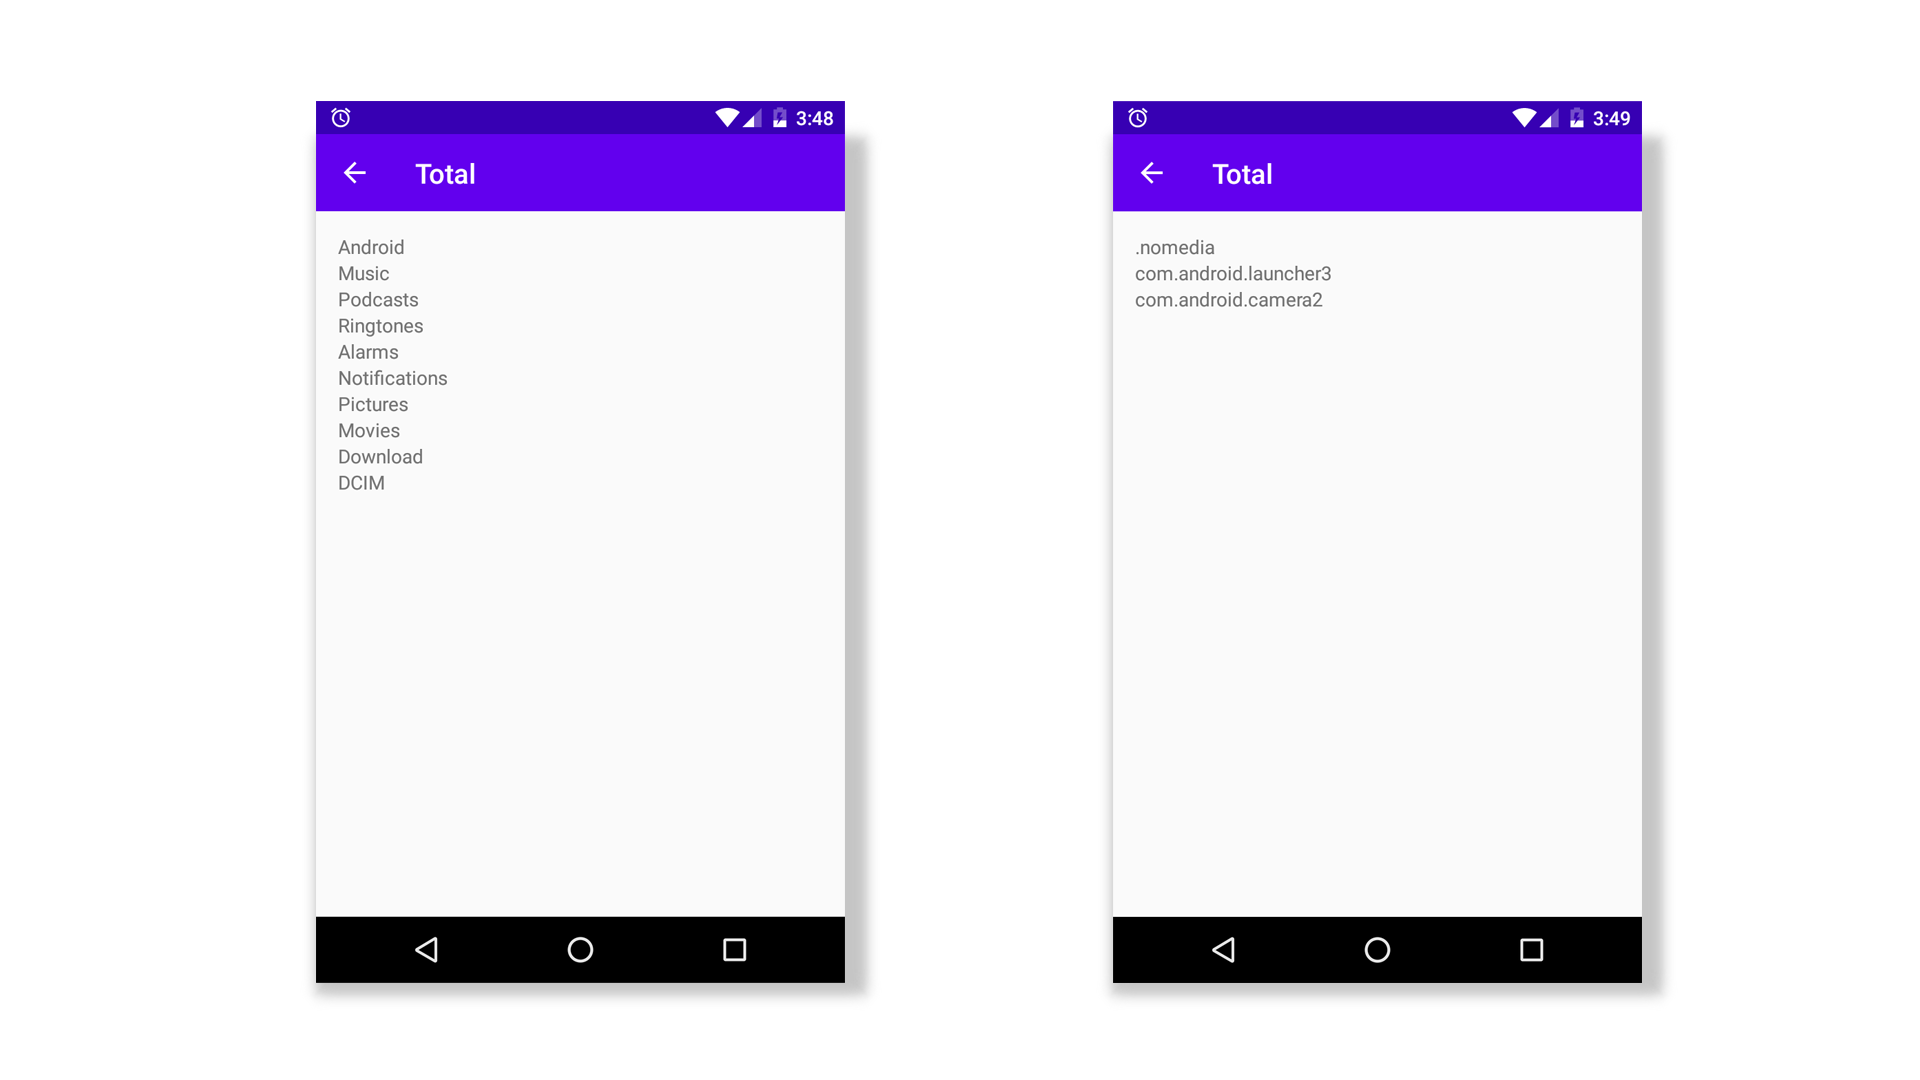
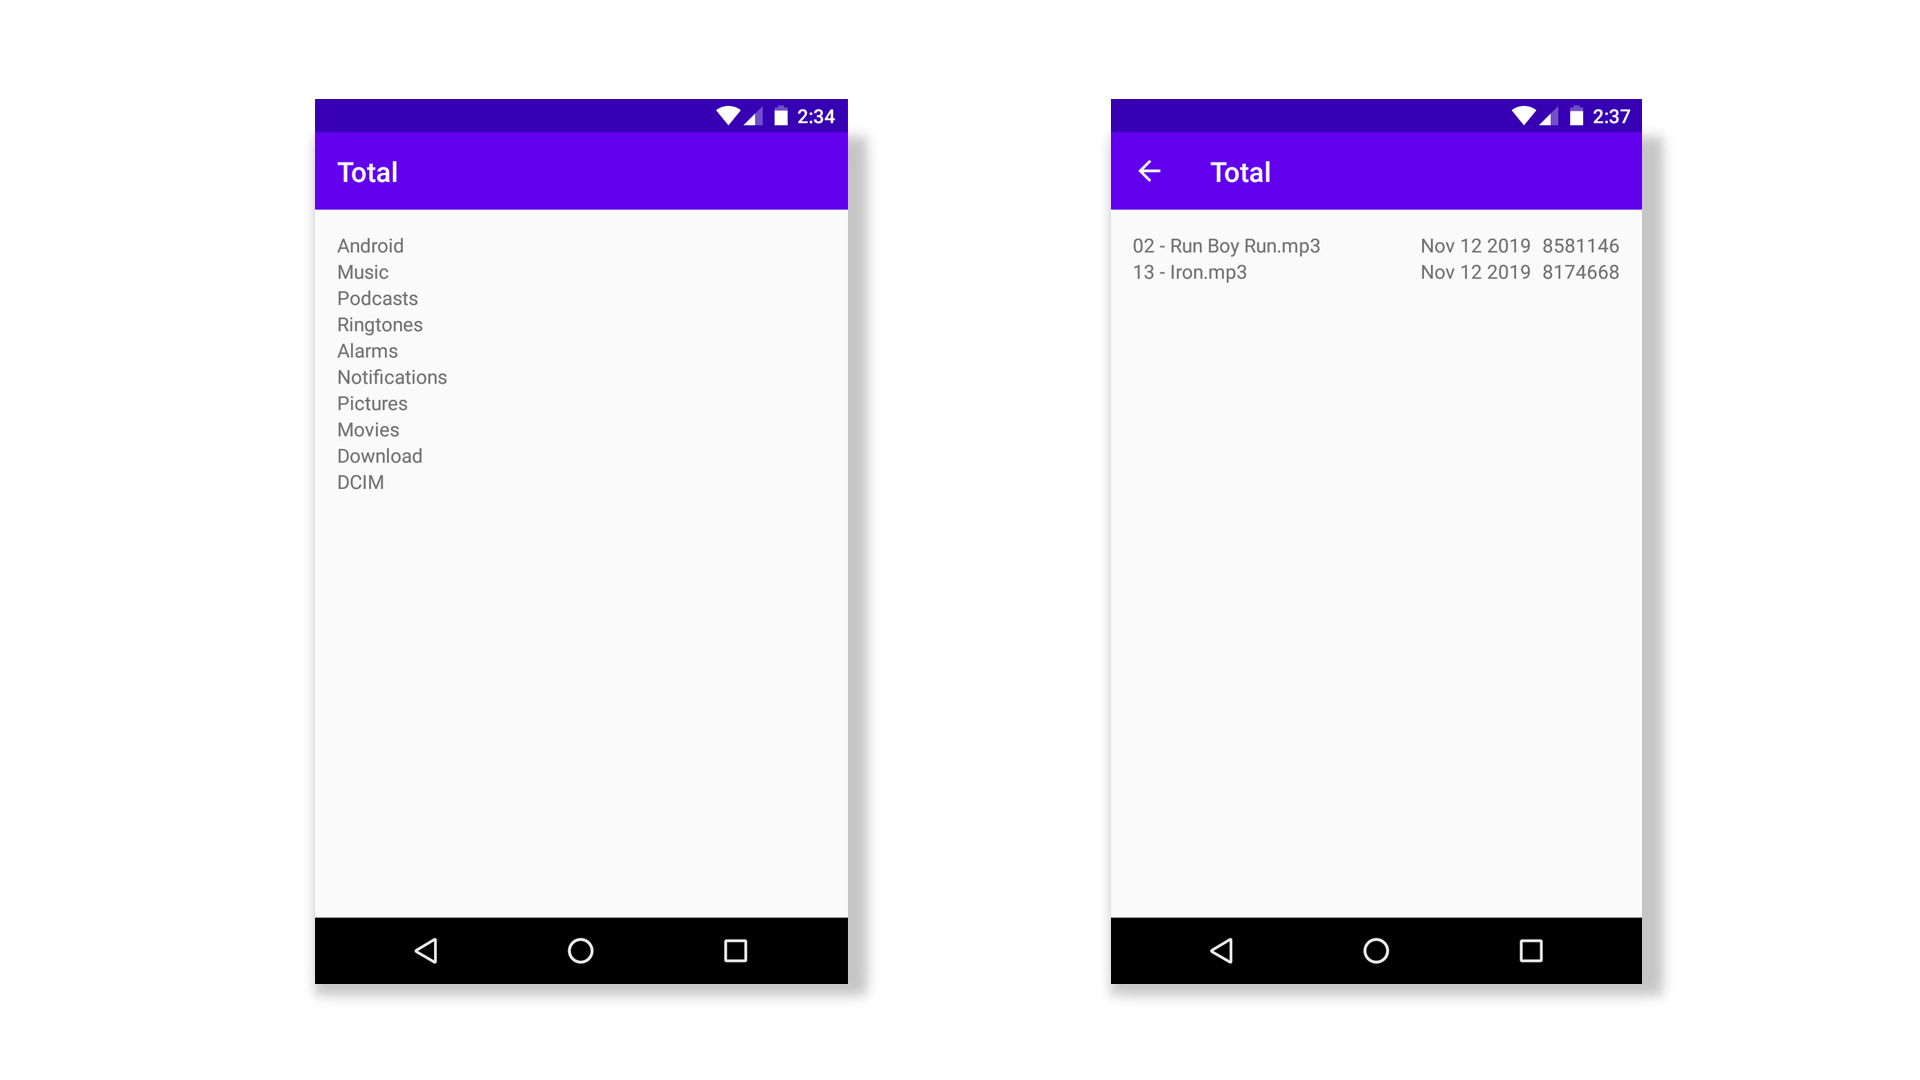
Added display of creation date and file size

diff --git a/app/src/main/java/ru/job4j/total/TotalFragment.java b/app/src/main/java/ru/job4j/total/TotalFragment.java
@@ -21,15 +21,21 @@ import androidx.recyclerview.widget.LinearLayoutManager;
 import androidx.recyclerview.widget.RecyclerView;
 
 import java.io.File;
+import java.io.IOException;
+import java.nio.file.Files;
+import java.nio.file.Path;
+import java.nio.file.Paths;
+import java.nio.file.attribute.BasicFileAttributes;
+import java.nio.file.attribute.FileTime;
 import java.util.ArrayList;
 import java.util.List;
 import java.util.Objects;
 
 public class TotalFragment extends Fragment {
     private FileModelAdapter adapter;
-    private RecyclerView recycler;
     private List<String> listOfPaths = new ArrayList<>();
     private Context context;
+    private AppCompatActivity activity;
     private int count = 0;
 
     @Nullable
@@ -38,17 +44,17 @@ public class TotalFragment extends Fragment {
                              @Nullable Bundle savedInstanceState) {
         View view = inflater.inflate(R.layout.files_tree, container, false);
         context = getContext();
-        recycler = view.findViewById(R.id.recycler);
+        RecyclerView recycler = view.findViewById(R.id.recycler);
         recycler.setHasFixedSize(true);
         recycler.setLayoutManager(new LinearLayoutManager(getActivity()));
-        AppCompatActivity activity = (AppCompatActivity) getActivity();
+        activity = (AppCompatActivity) getActivity();
         File directory = Environment.getExternalStorageDirectory();
         listOfPaths.add(directory.getAbsolutePath());
         File[] files = directory.listFiles();
         Toolbar toolbar = view.findViewById(R.id.toolbar);
         if (activity != null) {
             activity.setSupportActionBar(toolbar);
-            Objects.requireNonNull(activity.getSupportActionBar()).setDisplayHomeAsUpEnabled(true);
+
         }
         toolbar.setNavigationOnClickListener(new View.OnClickListener() {
             @Override
@@ -63,6 +69,7 @@ public class TotalFragment extends Fragment {
 
     private final class FileModelAdapter extends RecyclerView.Adapter<RecyclerView.ViewHolder> {
         File[] files;
+        TextView created, size;
 
         FileModelAdapter(File[] files) {
             this.files = files;
@@ -80,8 +87,16 @@ public class TotalFragment extends Fragment {
         public void onBindViewHolder(@NonNull final RecyclerView.ViewHolder holder, final int position) {
             File file = files[position];
             final String absolutePath = file.getAbsolutePath();
-            final TextView name = holder.itemView.findViewById(R.id.name);
+            final TextView name = holder.itemView.findViewById(R.id.file_name);
+            created = holder.itemView.findViewById(R.id.file_created);
+            size = holder.itemView.findViewById(R.id.file_size);
             name.setText(file.getName());
+            if (file.isFile()) {
+                addBasicFileAttributes(absolutePath);
+            } else {
+                created.setText(null);
+                size.setText(null);
+            }
             name.setOnClickListener(new View.OnClickListener() {
                 @Override
                 public void onClick(View v) {
@@ -91,6 +106,8 @@ public class TotalFragment extends Fragment {
                         listOfPaths.add(absolutePath);
                         update(absolutePath);
                         count++;
+
+                        Objects.requireNonNull(activity.getSupportActionBar()).setDisplayHomeAsUpEnabled(true);
                     }
                     if (file.isFile()) {
                         playMusic(file);
@@ -106,13 +123,18 @@ public class TotalFragment extends Fragment {
 
         void back() {
             if (count > 0) {
+                int temp = count;
                 count--;
                 update(listOfPaths.get(count));
+                listOfPaths.remove(temp);
+                if (count == 0) {
+                    Objects.requireNonNull(activity.getSupportActionBar()).setDisplayHomeAsUpEnabled(false);
+                }
             }
         }
 
-        private void update(String path) {
-            File file = new File(path);
+        private void update(String absolutePath) {
+            File file = new File(absolutePath);
             files = file.listFiles();
             notifyDataSetChanged();
         }
@@ -124,6 +146,26 @@ public class TotalFragment extends Fragment {
             intent.setDataAndType(uri, "audio/*");
             intent.setFlags(Intent.FLAG_GRANT_READ_URI_PERMISSION);
             startActivity(intent);
+        }
+
+        private void addBasicFileAttributes(String absolutePath) {
+            BasicFileAttributes basicFileAttributes = null;
+            FileTime create;
+            long dateCreated = 0;
+            int fileSize = 0;
+            Path path = Paths.get(absolutePath);
+            try {
+                basicFileAttributes = Files.readAttributes(path, BasicFileAttributes.class);
+            } catch (IOException e) {
+                e.printStackTrace();
+            }
+            if (basicFileAttributes != null) {
+                create = basicFileAttributes.creationTime();
+                dateCreated = create.toMillis();
+                fileSize = (int) basicFileAttributes.size();
+            }
+            created.setText(Utils.getDate(dateCreated));
+            size.setText(String.valueOf(fileSize));
         }
     }
 }

diff --git a/app/src/main/java/ru/job4j/total/Utils.java b/app/src/main/java/ru/job4j/total/Utils.java
@@ -1,0 +1,13 @@
+package ru.job4j.total;
+
+import java.text.SimpleDateFormat;
+import java.util.Locale;
+
+class Utils {
+
+    static String getDate(long date) {
+        SimpleDateFormat fullDateFormat
+                = new SimpleDateFormat("MMM dd yyyy", Locale.getDefault());
+        return fullDateFormat.format(date);
+    }
+}
